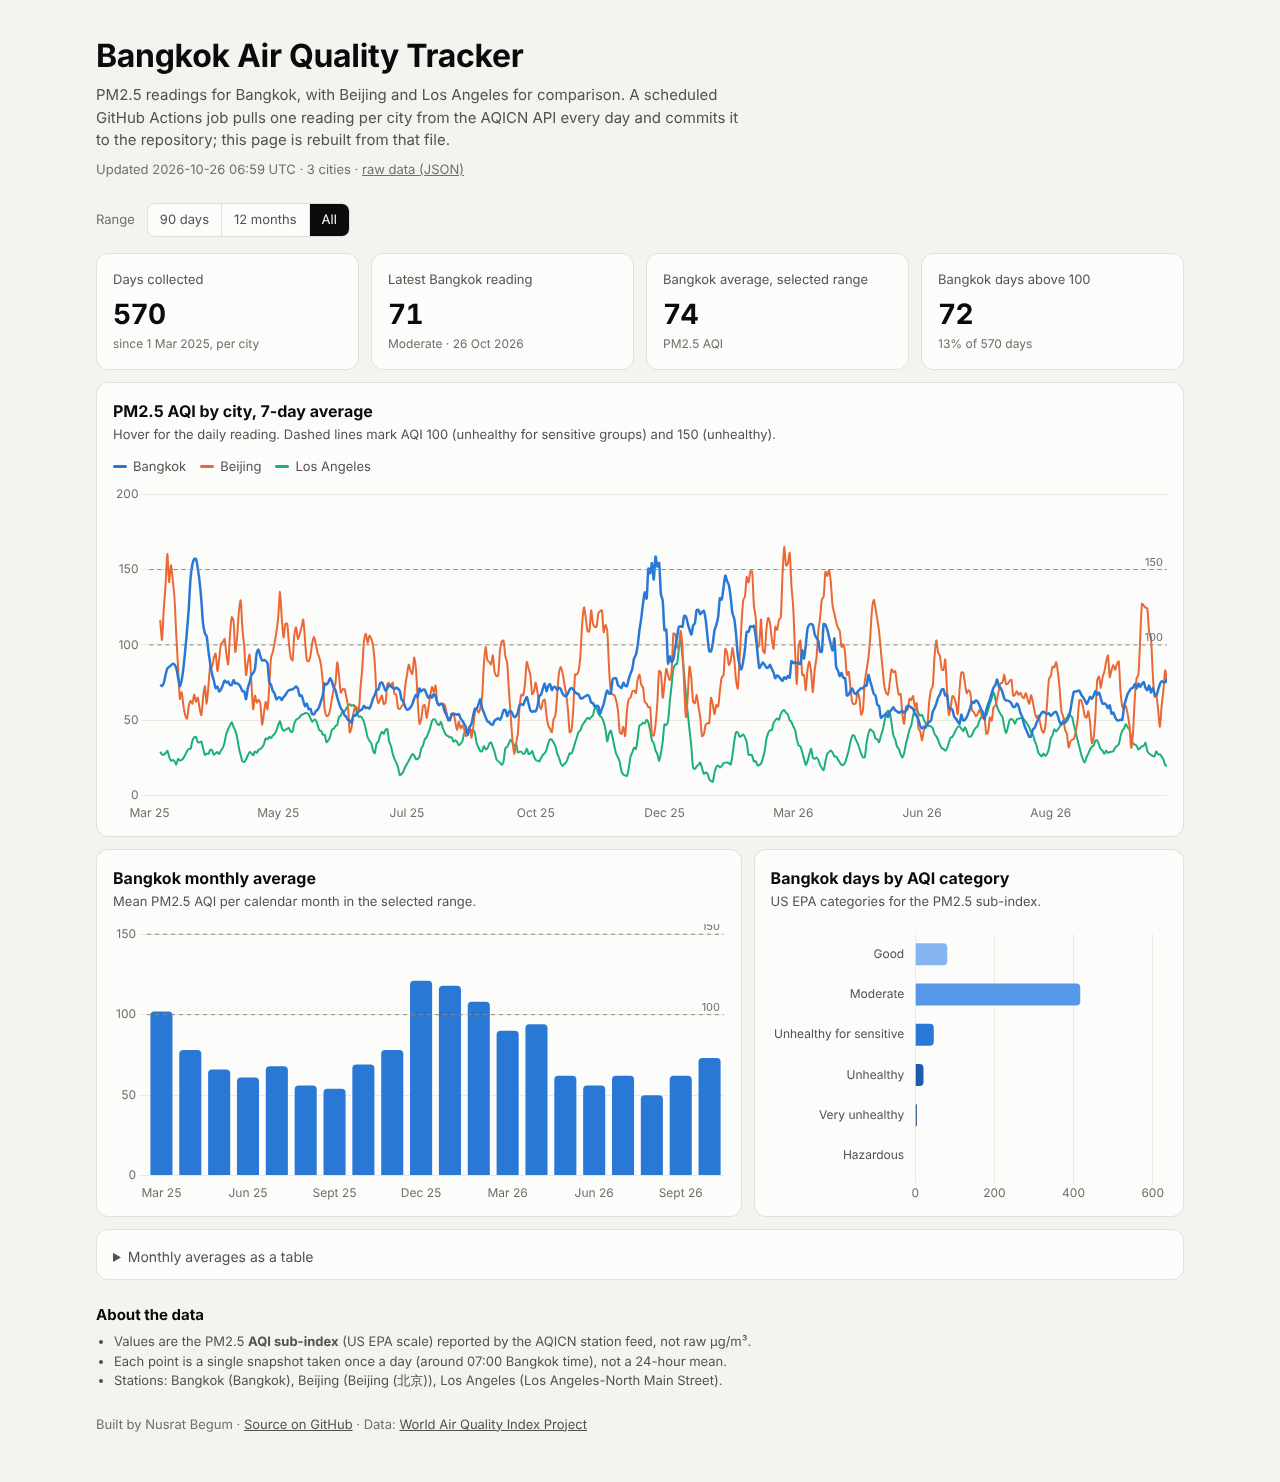
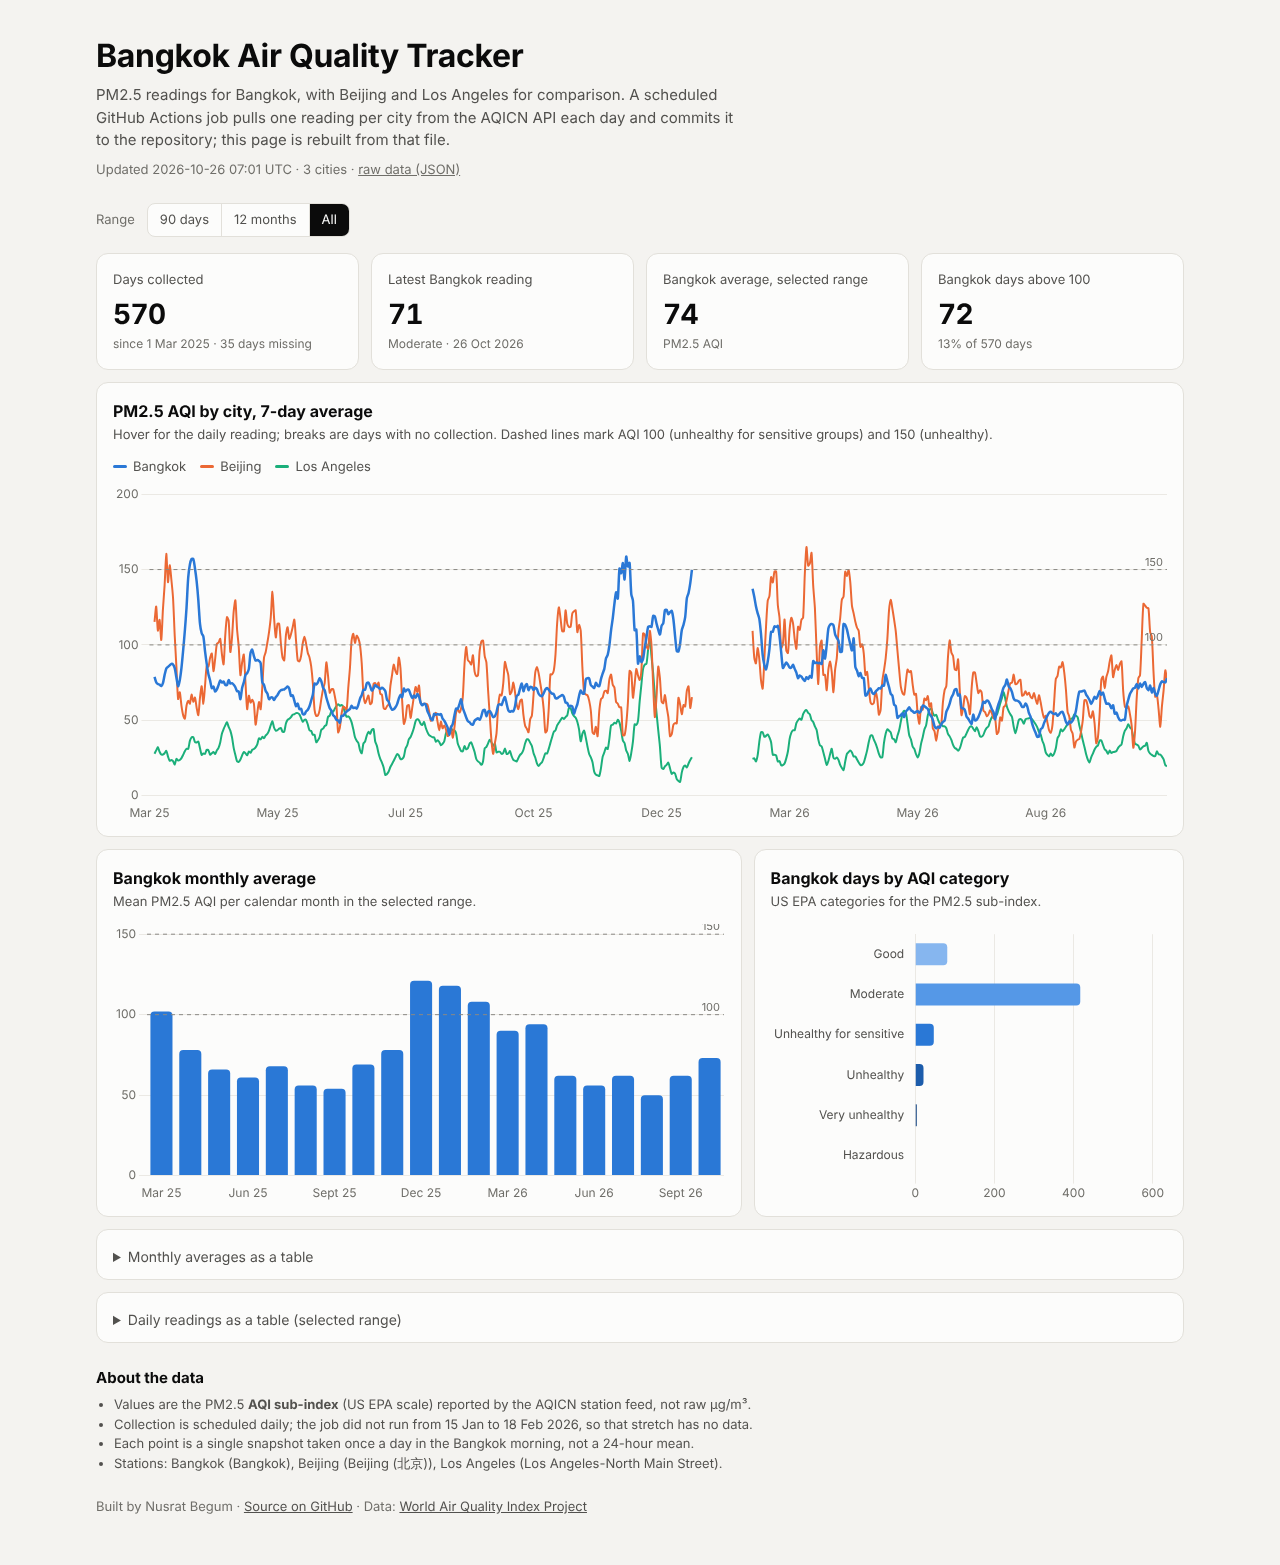
Make the dashboard calendar-aware and document the collection gap
- Range filter uses a calendar-date cutoff from the latest reading
- 7-day average is computed per calendar day over the full history
  (needs 4+ readings in the window), then trimmed to the range; the
  35-day gap (15 Jan - 18 Feb 2026) shows as a break
- Add a daily-readings table so values are reachable without hover
- README and page notes describe the gap instead of claiming none

Claude-Session: https://claude.ai/code/session_01VHbXBa5vEP2BsYxxgAx8uy

diff --git a/dashboard/index.html b/dashboard/index.html
@@ -98,6 +98,8 @@
   th, td { text-align: right; padding: 6px 10px; border-bottom: 1px solid var(--grid); white-space: nowrap; }
   th:first-child, td:first-child { text-align: left; }
   th { color: var(--text-secondary); font-weight: 600; }
+  .tablewrap.daily { max-height: 420px; overflow-y: auto; }
+  .sr { position: absolute; width: 1px; height: 1px; overflow: hidden; clip: rect(0 0 0 0); white-space: nowrap; }
   .notes { margin-top: 24px; font-size: 13px; color: var(--text-secondary); }
   .notes h2 { font-size: 15px; color: var(--text-primary); margin: 0 0 6px; }
   .notes ul { margin: 0; padding-left: 18px; }
@@ -115,7 +117,7 @@
 <div class="wrap">
   <header>
     <h1>Bangkok Air Quality Tracker</h1>
-    <p>PM2.5 readings for Bangkok, with Beijing and Los Angeles for comparison. A scheduled GitHub Actions job pulls one reading per city from the AQICN API every day and commits it to the repository; this page is rebuilt from that file.</p>
+    <p>PM2.5 readings for Bangkok, with Beijing and Los Angeles for comparison. A scheduled GitHub Actions job pulls one reading per city from the AQICN API each day and commits it to the repository; this page is rebuilt from that file.</p>
     <div class="meta" id="meta">Loading data…</div>
   </header>
 
@@ -137,7 +139,7 @@
 
   <section class="card">
     <h2>PM2.5 AQI by city, 7-day average</h2>
-    <p class="desc">Hover for the daily reading. Dashed lines mark AQI 100 (unhealthy for sensitive groups) and 150 (unhealthy).</p>
+    <p class="desc">Hover for the daily reading; breaks are days with no collection. Dashed lines mark AQI 100 (unhealthy for sensitive groups) and 150 (unhealthy).</p>
     <div class="legend" id="legend"></div>
     <div class="chart"><canvas id="lineChart" role="img" aria-label="Line chart of 7-day average PM2.5 AQI for Bangkok, Beijing and Los Angeles"></canvas></div>
   </section>
@@ -159,11 +161,16 @@
     <summary>Monthly averages as a table</summary>
     <div class="tablewrap"><table id="table"><thead></thead><tbody></tbody></table></div>
   </details>
+  <details class="card">
+    <summary>Daily readings as a table (selected range)</summary>
+    <div class="tablewrap daily"><table id="daily"><caption class="sr">Daily PM2.5 AQI readings per city</caption><thead></thead><tbody></tbody></table></div>
+  </details>
 
   <section class="notes">
     <h2>About the data</h2>
     <ul>
       <li>Values are the PM2.5 <strong>AQI sub-index</strong> (US EPA scale) reported by the AQICN station feed, not raw µg/m³.</li>
+      <li>Collection is scheduled daily; the job did not run from 15 Jan to 18 Feb 2026, so that stretch has no data.</li>
       <li>Each point is a single snapshot taken once a day in the Bangkok morning, not a 24-hour mean.</li>
       <li>Stations: <span id="stations"></span>.</li>
     </ul>
@@ -196,20 +203,43 @@
   let rangeDays = 0;
   const charts = {};
 
+  const addDays = (d, n) => {
+    const t = new Date(d + 'T00:00:00Z');
+    t.setUTCDate(t.getUTCDate() + n);
+    return t.toISOString().slice(0, 10);
+  };
+  function calendar(first, last) {
+    const out = [];
+    for (let d = first; d <= last; d = addDays(d, 1)) out.push(d);
+    return out;
+  }
+  const lastDate = () => data.series.Bangkok[data.series.Bangkok.length - 1][0];
+  // First calendar day of the selected range (inclusive).
+  const rangeStart = () => (rangeDays ? addDays(lastDate(), -(rangeDays - 1)) : data.series.Bangkok[0][0]);
+
   function sliceSeries() {
+    const start = rangeStart();
     const out = {};
     for (const city of CITIES) {
-      const rows = data.series[city] || [];
-      out[city] = rangeDays ? rows.slice(-rangeDays) : rows;
+      out[city] = (data.series[city] || []).filter((r) => r[0] >= start);
     }
     return out;
   }
 
-  function rolling(values, n) {
-    return values.map((_, i) => {
-      if (i < n - 1) return null;
-      return Math.round(mean(values.slice(i - n + 1, i + 1)) * 10) / 10;
-    });
+  // 7-calendar-day trailing mean over the full history; null when the window
+  // holds fewer than 4 readings, so collection gaps stay visible as breaks.
+  function rollingByDate(rows, days = 7, minReadings = 4) {
+    const byDate = new Map(rows.map((r) => [r[0], r[1]]));
+    const out = new Map();
+    for (const d of calendar(rows[0][0], rows[rows.length - 1][0])) {
+      const vals = [];
+      for (let i = 0; i < days; i++) {
+        const v = byDate.get(addDays(d, -i));
+        if (v != null) vals.push(v);
+      }
+      out.set(d, vals.length >= minReadings ? Math.round(mean(vals) * 10) / 10 : null);
+    }
+    return { byDate, avg: out };
   }
 
   function monthly(rows) {
@@ -295,8 +325,9 @@
     const all = data.series.Bangkok;
 
     // Tiles
+    const span = calendar(all[0][0], lastDate()).length;
     document.getElementById('t-days').textContent = all.length.toLocaleString();
-    document.getElementById('t-days-sub').textContent = `since ${fmtDate(all[0][0])}, per city`;
+    document.getElementById('t-days-sub').textContent = `since ${fmtDate(all[0][0])} · ${span - all.length} days missing`;
     const last = all[all.length - 1];
     document.getElementById('t-latest').textContent = last[1];
     document.getElementById('t-latest-sub').textContent = `${category(last[1])} · ${fmtDate(last[0])}`;
@@ -306,13 +337,14 @@
     document.getElementById('t-over-sub').textContent = `${Math.round((over / bkk.length) * 100)}% of ${bkk.length} days`;
 
     // Line chart
-    const labels = bkk.map((r) => r[0]);
+    const labels = calendar(rangeStart(), lastDate());
     const colors = { Bangkok: css('--series-1'), Beijing: css('--series-2'), 'Los Angeles': css('--series-3') };
     const datasets = CITIES.map((city) => {
-      const raw = sel[city].map((r) => r[1]);
+      const { byDate, avg } = rollingByDate(data.series[city]);
+      const raw = labels.map((d) => byDate.get(d) ?? null);
       return {
         label: city,
-        data: rolling(raw, 7),
+        data: labels.map((d) => avg.get(d) ?? null),
         raw,
         borderColor: colors[city],
         backgroundColor: colors[city],
@@ -322,7 +354,7 @@
         pointHoverBorderColor: css('--surface-1'),
         pointHoverBorderWidth: 2,
         tension: 0.25,
-        spanGaps: true,
+        spanGaps: false,
       };
     });
     document.getElementById('legend').innerHTML = CITIES.map((c) => `<span><i style="background:${colors[c]}"></i>${c}</span>`).join('');
@@ -340,7 +372,7 @@
         const ds = item.dataset;
         const daily = ds.raw[item.dataIndex];
         const avg = item.raw == null ? '–' : item.raw;
-        return ` ${ds.label}: ${daily} that day · 7-day avg ${avg}`;
+        return ` ${ds.label}: ${daily == null ? 'no reading' : daily} that day · 7-day avg ${avg}`;
       },
     };
     charts.line && charts.line.destroy();
@@ -398,6 +430,14 @@
       .slice()
       .reverse()
       .map((m) => `<tr><td>${fmtMonth(m[0])}</td>${CITIES.map((c) => `<td>${byCity[c].get(m[0]) ?? '–'}</td>`).join('')}<td>${m[2]}</td></tr>`)
+      .join('');
+
+    const dailyBy = Object.fromEntries(CITIES.map((c) => [c, new Map(sel[c].map((r) => [r[0], r[1]]))]));
+    document.querySelector('#daily thead').innerHTML = `<tr><th>Date</th>${CITIES.map((c) => `<th>${c}</th>`).join('')}</tr>`;
+    document.querySelector('#daily tbody').innerHTML = bkk
+      .slice()
+      .reverse()
+      .map((r) => `<tr><td>${fmtDate(r[0])}</td>${CITIES.map((c) => `<td>${dailyBy[c].get(r[0]) ?? '–'}</td>`).join('')}</tr>`)
       .join('');
   }
 

diff --git a/README.md b/README.md
@@ -2,7 +2,7 @@
 
 **Live dashboard:** _link added after the first Vercel deploy_
 
-A small data pipeline and dashboard for PM2.5 in Bangkok, with Beijing and Los Angeles for comparison. A scheduled GitHub Actions job has pulled one reading per city from the AQICN API **every day since 1 March 2025** (570+ days, no gaps) and committed it to this repository. A static dashboard is rebuilt from that file and deployed on every push.
+A small data pipeline and dashboard for PM2.5 in Bangkok, with Beijing and Los Angeles for comparison. A scheduled GitHub Actions job has pulled one reading per city from the AQICN API each day since **1 March 2025** and committed it to this repository: 570 daily readings per city so far, with one 35-day gap (15 Jan – 18 Feb 2026) when the job did not run. A static dashboard is rebuilt from that file and deployed on every push.
 
 It started as the final project for *Data Science Essentials* at Mahidol University (MUICT), built by a team of two, and has kept collecting data since.
 
@@ -19,12 +19,13 @@ GitHub Actions (daily cron, 00:00 UTC)
 
 - **Collection:** `fetch_airdata.py` calls the AQICN city feed for each city and appends the AQI, the PM2.5 sub-index and the raw JSON response (temperature, humidity, wind, forecasts) to `air_data.csv`. The API key is read from the `AQICN_API_KEY` environment variable / repository secret.
 - **Transform:** `scripts/build_dashboard.py` parses the CSV (stdlib only), keeps one reading per city per day, and writes a compact `dashboard/data.json`.
-- **Dashboard:** `dashboard/index.html` is a static page with Chart.js: 7-day average lines per city with daily values on hover, Bangkok monthly averages, days per US EPA AQI category, a time-range filter, a table view, and light/dark themes.
+- **Dashboard:** `dashboard/index.html` is a static page with Chart.js: 7-calendar-day average lines per city (gaps shown as breaks) with daily values on hover, a daily table view, Bangkok monthly averages, days per US EPA AQI category, a time-range filter, a table view, and light/dark themes.
 - **Analysis:** `main.ipynb` holds the original course analysis (see below).
 
 ## Data notes
 
 - Values are the **PM2.5 AQI sub-index (US EPA scale)** from the AQICN station feed, not raw µg/m³.
+- Collection gap: no data from 15 Jan to 18 Feb 2026. The dashboard shows it as a break in the lines.
 - Each point is one snapshot per day, taken in the Bangkok morning (the job is scheduled for 07:00 local time and GitHub may start it later), not a 24-hour mean.
 - Stations: Bangkok (city feed), Beijing (city feed), Los Angeles (North Main Street).
 
@@ -37,7 +38,7 @@ The notebook tested two hypotheses on Bangkok data from March–April 2025 (47 d
 | H1: PM2.5 is higher on low-wind (< 64 km/h) and high-humidity (> 70%) days | One-tailed Welch t-test; Mann–Whitney U | **Not supported.** Mean 79.7 on those days (n = 34) vs 109.4 on other days (n = 13); p = 0.98 (t-test), p = 0.99 (Mann–Whitney). |
 | H2: PM2.5 differs between rainy and dry days | Two-tailed Welch t-test; Mann–Whitney U | **Not significant.** Mean 81.9 on rainy days (n = 28) vs 96.8 on dry days (n = 19); p = 0.14 (t-test), p = 0.29 (Mann–Whitney). |
 
-Linear regressions on the same features had negative mean 5-fold cross-validated R² (−1.57 and −1.87), so weather alone did not predict PM2.5 in that window. The small sample (47 days, one season) is the main limitation. The daily collection that continues in this repo, now 570+ days, is the dataset a follow-up analysis would use.
+Linear regressions on the same features had negative mean 5-fold cross-validated R² (−1.57 and −1.87), so weather alone did not predict PM2.5 in that window. The small sample (47 days, one season) is the main limitation. The daily collection that continues in this repo, now 570 days, is the dataset a follow-up analysis would use.
 
 ## Run it locally
 
